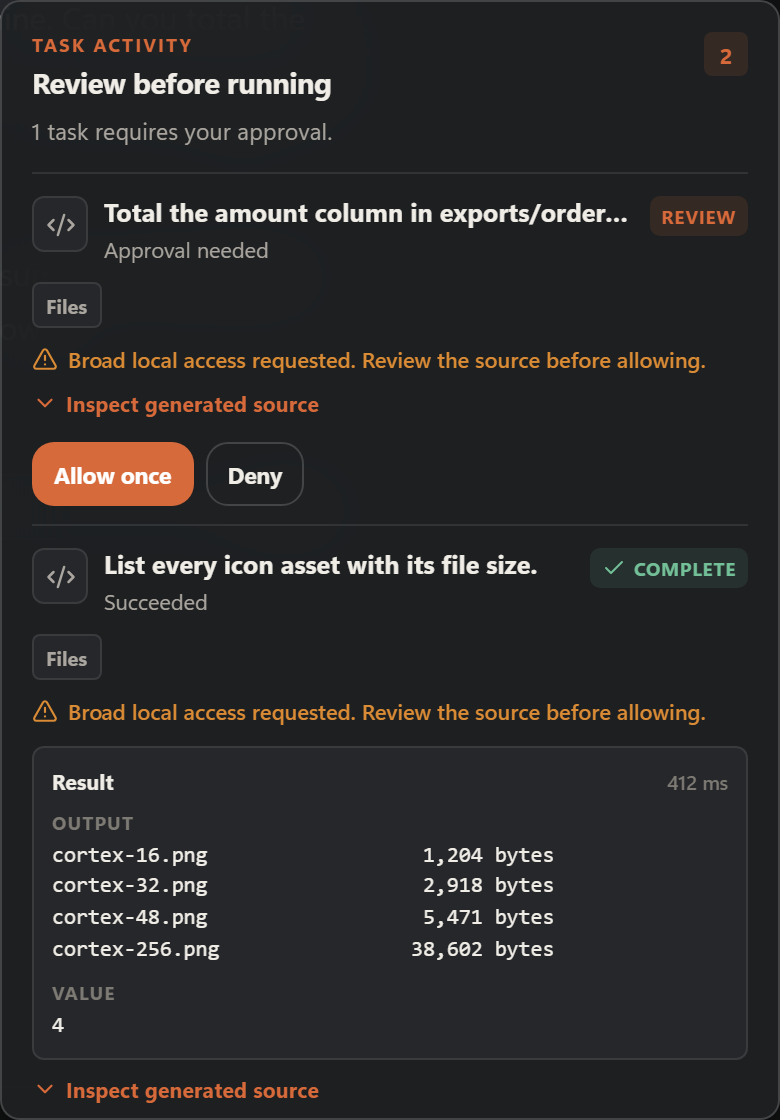
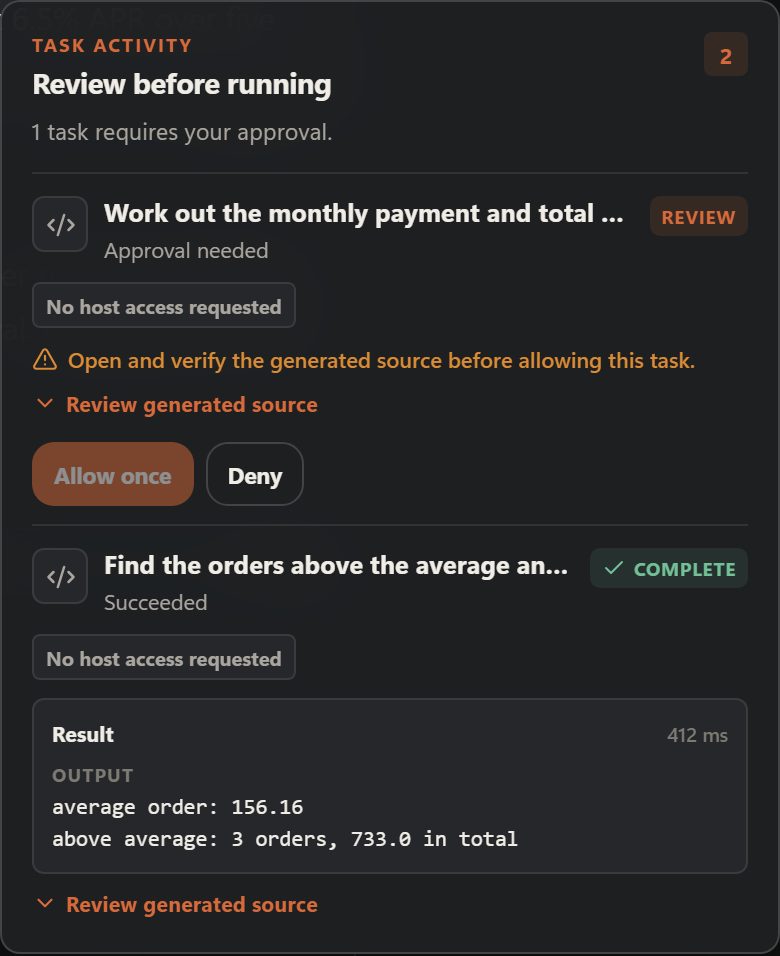
docs(readme): describe the app as it ships
- Retake all eight README screenshots from the current build with
  ./tools/screenshots/showcase.ps1. Two consecutive runs produced identical
  bytes for all 26 captures, so the "regenerate byte for byte" claim holds;
  the committed images were simply from 2026-08-31 and predated the model
  picker and settings redesign (#271) and the corrected execution demo.
- Rewrite the execution image descriptions for the new demo, and the
  settings image description for the redesigned controls.
- State what execution capabilities reach today: files are a per-run scratch
  folder created empty and deleted afterwards, process access is refused
  (process_capability_unavailable), network is a few GETs to public addresses.
- Drop "user-selected PNG/JPEG/WebP transforms": nothing in the UI can start
  one. Describe the scratch calculator by what the user gets.
- Replace the "setup screen" (LocalSetup.tsx is imported only by its test)
  with where a model is really chosen.
- GGUF ids carry their path since #270: gguf:<path>, not gguf:<filename>.

Outside the tree, same pass: GitHub private vulnerability reporting (which
SECURITY.md points to) is switched on, and the repository description names
the llama.cpp runtime instead of Ollama alone.

diff --git a/README.md b/README.md
@@ -43,9 +43,10 @@ beneath.](.github/images/models-and-runtimes.png)
 Generation defaults live in one place, and the chat model doubles as the title
 model so there is only one choice to make:
 
-![Cortex settings, AI Model section: the local model picker above grouped
-Sampling and Context controls, with filled-track sliders and their current
-values shown beside each label.](.github/images/settings.png)
+![Cortex settings, AI Model section: the chat model picker showing each model's
+source, size, and quantization, above the generation defaults -- Precise,
+Balanced, and Creative response styles, sliders with an editable exact value,
+and one-tap context window sizes from 2K to 64K.](.github/images/settings.png)
 
 Temperature, top-p, top-k, repeat penalty, and context window can also be
 overridden for a single conversation from the composer, without disturbing these
@@ -85,7 +86,9 @@ transcript.](.github/images/workspace-light.png)
   `auto` (try Vulkan, fall back to CPU), `vulkan`, or `cpu`.
 - **Bring your own GGUF.** Download a model into the local folder by direct URL
   or Hugging Face repo, then select it from the same picker as everything else.
-  Local files appear as `gguf:<filename>`.
+  The folder is searched a few levels deep, so the one-folder-per-repository
+  layout downloaders use works as-is; a file appears as `gguf:<path>`, e.g.
+  `gguf:Qwen3-8B-GGUF/Qwen3-8B-Q4_K_M.gguf`.
 - **Composer model control.** Inspect the local inventory, switch models without
   leaving the composer, refresh the inventory, and stage local image or text
   attachments.
@@ -107,9 +110,9 @@ transcript.](.github/images/workspace-light.png)
 - **Durable context.** Threads live in SQLite; permanent memories use atomic
   local JSON storage. Existing JSON chat history and Windows settings are read
   additively during migration without rewriting the legacy source.
-- **Bounded local tools.** Explicit arithmetic can use the deterministic scratch
-  calculator. User-selected PNG/JPEG/WebP transforms run as fixed recipes in a
-  short-lived worker.
+- **Exact arithmetic.** An explicit calculation ("what is 17.5% of 2,340?") is
+  checked by a deterministic local calculator before the model answers, so the
+  figure in the reply is computed rather than guessed.
 - **Approval-gated Python.** A local model may propose a task in a small,
   restricted subset of Python (no imports, no `def`/`class`/`while`, no method
   or attribute calls -- assignment, bounded loops, comprehensions, and a fixed
@@ -130,21 +133,24 @@ When a model proposes a task, the transcript states what it wants and the exact
 access it is asking for, and the task parks in the tray until the user decides.
 Nothing runs in the meantime:
 
-![A Cortex transcript where the model has proposed a Python task to total a CSV
-column: it explains that reading the disk is a capability it must ask for, shows
-the exact source it wants to run, and lists what it asks for -- files only, no
-writes, no process access, no network. The task activity tray on the right reads
-"Review before running" with Allow once and Deny
-controls.](.github/images/execution-approval.png)
+![A Cortex transcript where the model has proposed a short Python calculation
+for the monthly payment and total interest on a car loan: it shows the exact
+source it wants to run and states that it asks for no file, process, or network
+access. The task activity tray on the right reads "Review before running" with
+Allow once and Deny controls.](.github/images/execution-approval.png)
 
 The tray names the requested host access, flags broad access as a high-risk
 choice for that run, and lets the generated source be inspected before anything
 executes. A finished task keeps its captured output alongside it:
 
-![The Cortex task activity tray: a pending task requesting Files access with a
-broad-local-access warning, an "Inspect generated source" disclosure, and Allow
-once and Deny buttons; below it a completed task showing its captured output and
-return value.](.github/images/execution-tray.png)
+![The Cortex task activity tray: the pending loan calculation marked "No host
+access requested", with a prompt to review the generated source and Allow once
+and Deny buttons; below it a completed task showing its captured
+output.](.github/images/execution-tray.png)
+
+Both tasks in these images pass the real validator, and the output shown is
+what the restricted interpreter prints for that source
+(`tests/test_showcase_fixtures.py` holds the demo to that).
 
 Code execution is a separate capability from scratch computation:
 
@@ -165,6 +171,20 @@ Broad filesystem, process, or network access is a clearly labeled high-risk
 choice for that run. It is never silently enabled or persisted. If the required
 worker boundary cannot be established, Cortex fails closed and ordinary chat
 remains available.
+
+What the capabilities reach today is deliberately narrow:
+
+- **Files:** a scratch folder created empty for that one run and deleted
+  afterwards. A task cannot read your documents or your projects.
+- **Processes:** refused. Starting another program is not available until
+  Windows can enforce the same boundary the broker promises.
+- **Network:** a small number of HTTP GET requests to public addresses; private,
+  local, and carrier-NAT ranges are refused.
+
+The language itself is a restricted Python subset, so this suits calculations
+over data the model writes into the program -- not editing files or running
+your tests. A consent-gated workspace mode for that kind of work is the
+project's stated direction, and it is not built yet.
 
 ## Architecture
 
@@ -219,10 +239,11 @@ If you would rather not run Ollama, skip the first line and instead drop a
 download one from there by URL or Hugging Face repo. Cortex serves it with its
 own llama.cpp runtime.
 
-The first launch checks the local model inventory. Choose a model from the setup
-screen or later from the composer picker. If neither runtime has a usable model,
-Cortex still opens and explains the connection state; generation becomes
-available once a model is present and the inventory is refreshed.
+The first launch checks the local model inventory. Choose a model from the
+composer's model picker, or under **Settings -> AI Model**. If neither runtime
+has a usable model, Cortex still opens and explains the connection state;
+generation becomes available once a model is present and the inventory is
+refreshed.
 
 Useful launcher options:
 

diff --git a/Change_Log.md b/Change_Log.md
@@ -1,3 +1,24 @@
+### **README Accuracy**
+
+**Date:** 2026-09-25
+**Version:** Documentation pass
+
+* The README's pictures of the code feature now show code Cortex can actually
+  run. They showed a program that imported a module and read a file off the
+  disk, both of which Cortex refuses. The demo is now a loan calculation, and
+  a test holds every staged demo task to the real validator and its real
+  output.
+* All eight README screenshots are retaken from the current build, including
+  the redesigned model picker and generation settings.
+* The README states plainly what the code feature can reach today: a scratch
+  folder that is emptied for each run, no other programs, and a few public web
+  requests. It no longer describes an image-transform feature that has no
+  way to be started from the app, or a setup screen the app does not show.
+* Security reports now have somewhere to go: GitHub's private vulnerability
+  reporting, which `SECURITY.md` pointed to, is switched on.
+
+---
+
 ### **Corrupt Model Files**
 
 **Date:** 2026-09-25
